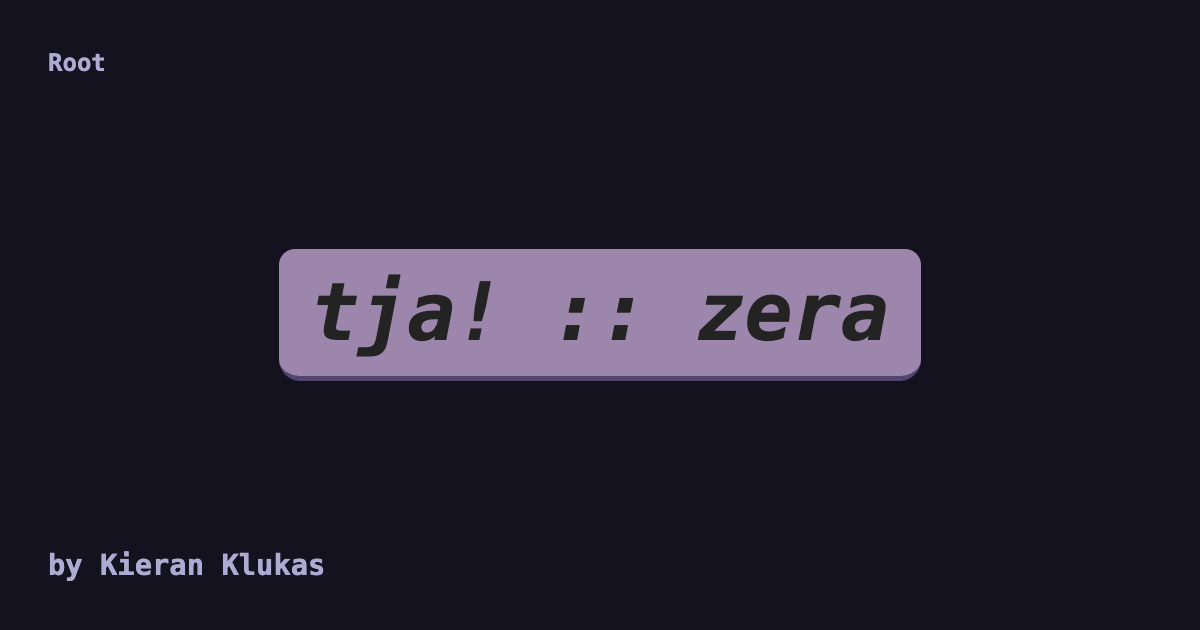
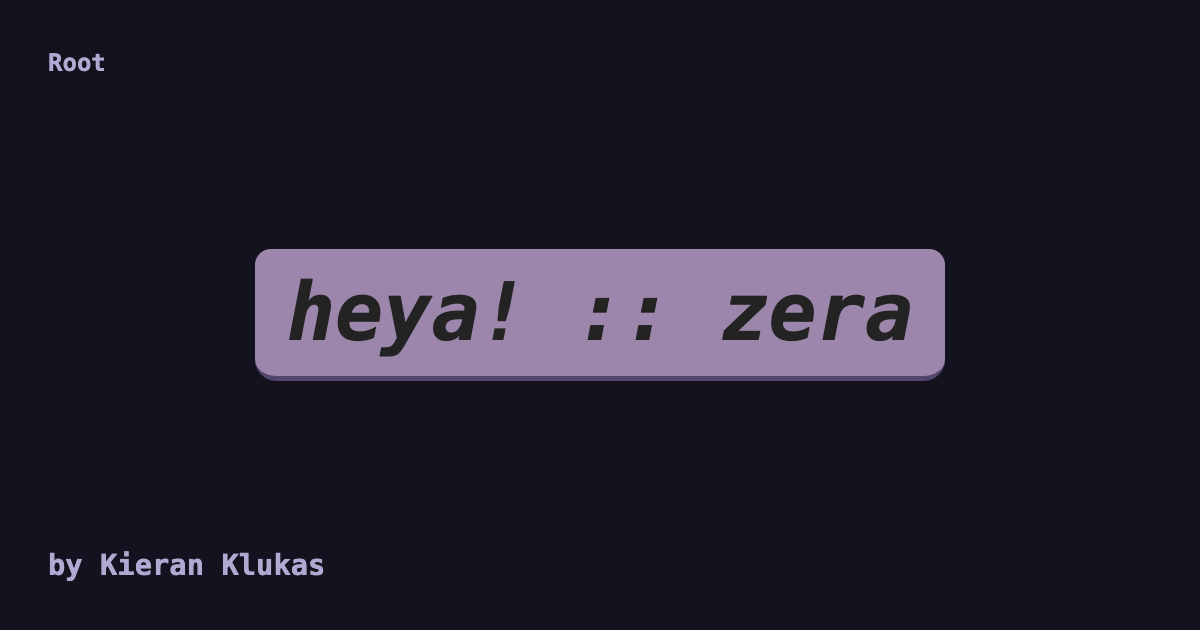
feat: gen og and update stuff and generate standard site records

Changed region(s): [[0.185, 0.3921, 0.4317, 0.6032], [0.5858, 0.3921, 0.8017, 0.6032], [0.4625, 0.4524, 0.555, 0.5429]]

diff --git a/templates/head.html b/templates/head.html
@@ -125,11 +125,11 @@ base64=true) %}
 
 <link rel="me" href="https://social.dino.icu/@taciturnaxoltol" />
 <link rel="me" href="https://github.com/taciturnaxolotl" />
-<link rel="site.standard.publication" href="at://did:plc:krxbvxvis5skq7jj6eot23ul/site.standard.publication/3mnmzflmnos25" />
+<link rel="site.standard.publication"
+  href="at://did:plc:krxbvxvis5skq7jj6eot23ul/site.standard.publication/3mnmzflmnos25" />
 <link rel="me" href="https://bsky.app/profile/dunkirk.sh" />
 <link rel="me" href="https://www.youtube.com/@kieran.rambles" />
 <link rel="me" href="https://keyoxide.org/aspe:keyoxide.org:QMHCMT55EODYTEBQ5C7QOAFN6A" />
-<link rel="me" href="https://serif.blue" />
 
 <link rel="indieauth-metadata" href="https://indiko.dunkirk.sh/.well-known/oauth-authorization-server" />
 <link rel="authorization_endpoint" href="https://indiko.dunkirk.sh/auth/authorize" />

diff --git a/content/blog/2026-07-17_llms.md b/content/blog/2026-07-17_llms.md
@@ -6,6 +6,9 @@ description = "A collection of my thoughts on LLMs and ai"
 
 [taxonomies]
 tags = ["vibecoding", "llms"]
+
+[extra]
+standard_site_uri = "at://did:plc:krxbvxvis5skq7jj6eot23ul/site.standard.document/3mrs2h2ov522j"
 +++
 
 > This is my best attempt at formulating the thoughts that have been tumbling around my head for the past two years. It's a bit pessimistic but I think that is kind of appropriate.

diff --git a/content/blog/2026-07-28_the-joy-of-hardware.md b/content/blog/2026-07-28_the-joy-of-hardware.md
@@ -6,6 +6,9 @@ description = "Julia Child has nothing on me"
 
 [taxonomies]
 tags = ["future", "hardware"] 
+
+[extra]
+standard_site_uri = "at://did:plc:krxbvxvis5skq7jj6eot23ul/site.standard.document/3mrs2h2uxhs2j"
 +++
 
 The is a certain joy I get when working on a hardware project. The smell of flux burning, solder meltying, the 3d printer bristtlebotting its way off the table. It's the absolute best feeling.

diff --git a/content/pfp.md b/content/pfp.md
@@ -30,8 +30,6 @@ June to September 13th
 
 dynamically updating varient of the starry background one with the cat; the background would change with the time.
 
-{{ bluesky(post="https://bsky.app/profile/serif.blue/post/3lqncouklcc2e") }}
-
 February 27th to June
 
 ![kieran with an orange cast in a polaroid over a pinkish background](/pfps/instsqc-rat-pfp.webp)
